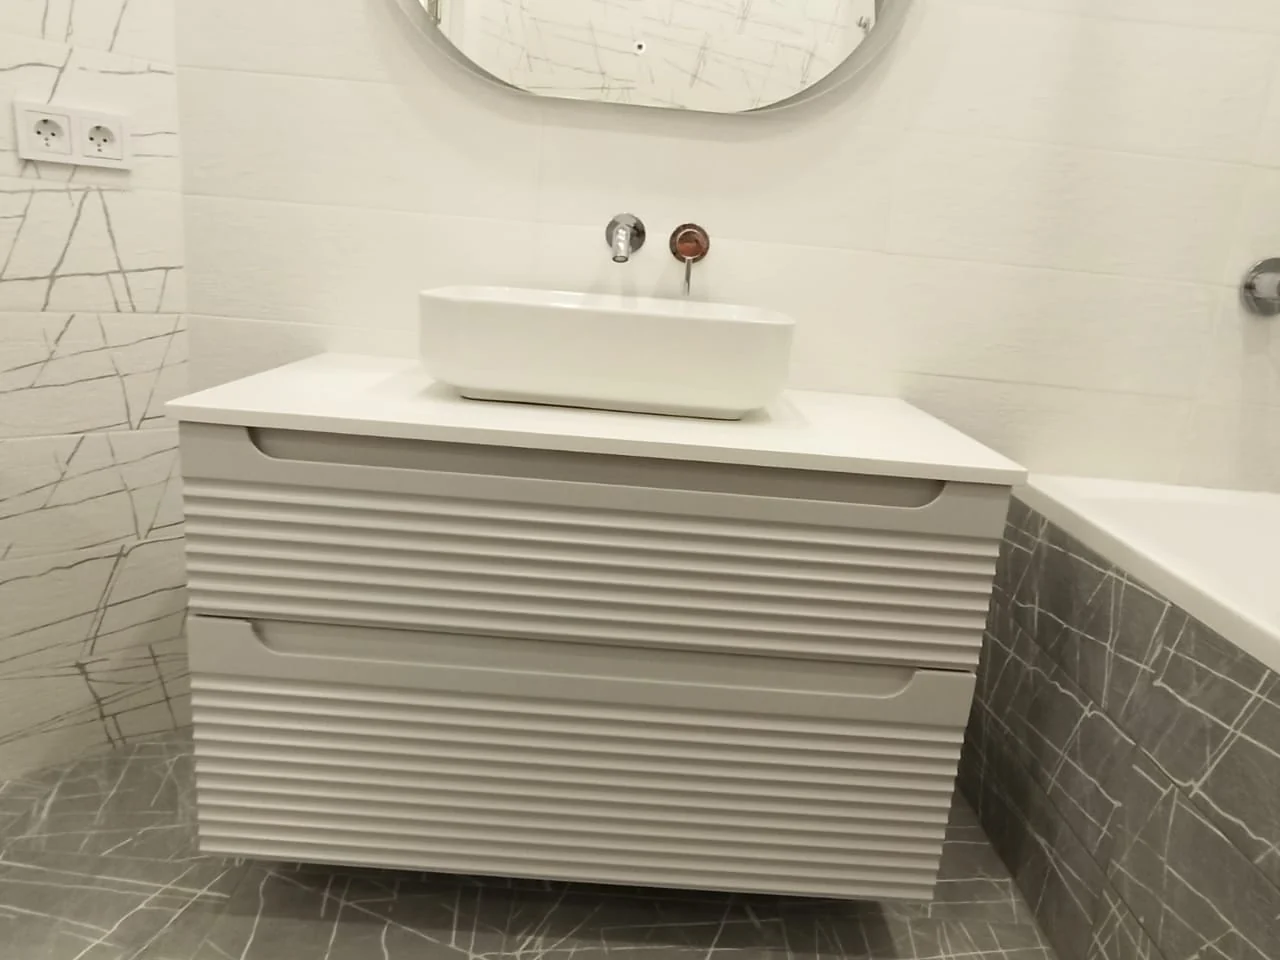
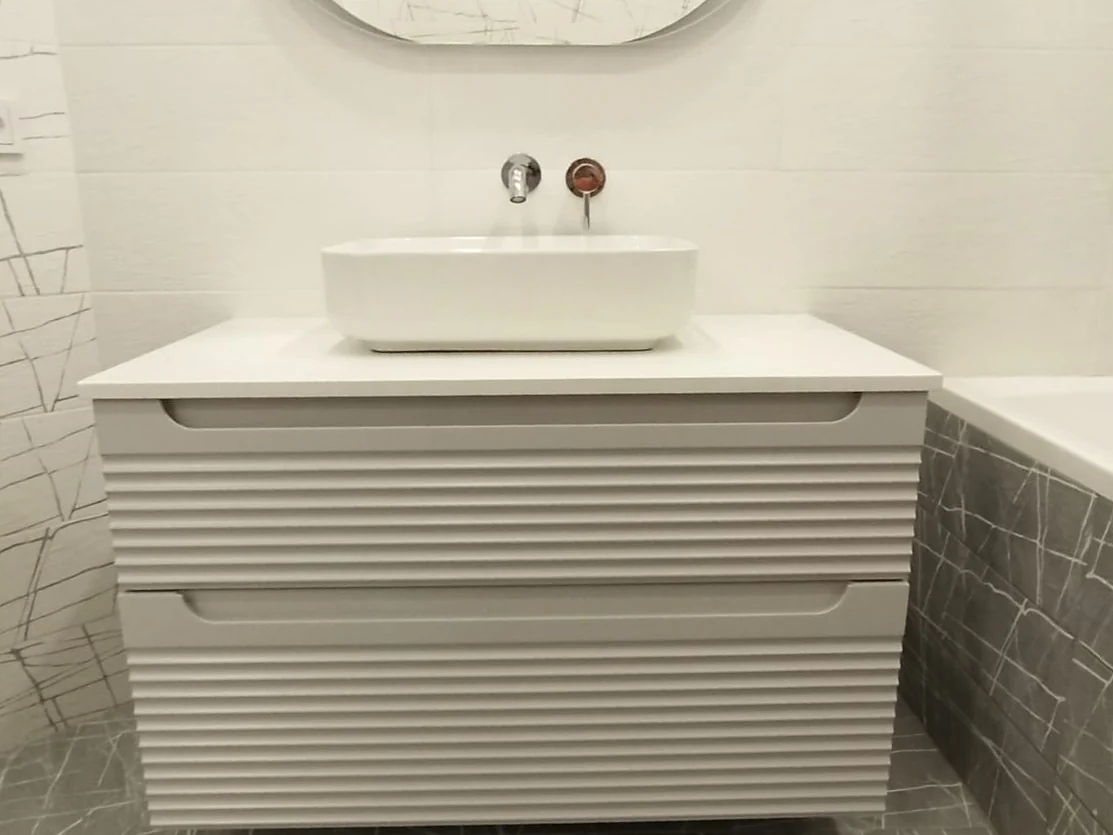
Add the glass-side cabinet photo to the grey Egna kitchen and level the bathroom vanity photo
The vanity photo was tilted about 5 degrees (the horizon ran down to the
right); it is rotated back and cropped so no empty corners remain.

diff --git a/data/projects.ts b/data/projects.ts
@@ -47,11 +47,12 @@ export const projects: Project[] = [
     images: [
       '/images/projects/kuhnya-salon-seraya-klassika/1.webp',
       '/images/projects/kuhnya-salon-seraya-klassika/2.webp',
+      '/images/projects/kuhnya-salon-seraya-klassika/5.webp',
       '/images/projects/kuhnya-salon-seraya-klassika/3.webp',
       '/images/projects/kuhnya-salon-seraya-klassika/4.webp',
     ],
     description:
-      'Кухня коллекции Egna, собранная в нашем салоне: светлые матовые фасады с классической рамкой и керамическими ручками-кнопками, высокие шкафы с карнизом, угловая рабочая зона с гранитной столешницей и фартуком, встроенные духовой шкаф и варочная панель. Спокойные серые стены и овальный стол завершают композицию. У коллекции Egna несколько вариантов фрезеровки фасадов.',
+      'Кухня коллекции Egna, собранная в нашем салоне: светлые матовые фасады с классической рамкой и керамическими ручками-кнопками, высокие шкафы с карнизом, угловая рабочая зона с гранитной столешницей и фартуком, встроенные духовой шкаф и варочная панель. Боковая секция высокого шкафа — со стеклянными витринными дверцами и полками. Спокойные серые стены и овальный стол завершают композицию. У коллекции Egna несколько вариантов фрезеровки фасадов.',
     // TODO: название коллекции подтверждено владельцем (Egna); уточнить район/город, год; согласие заказчика на публикацию фото
   },
   {
